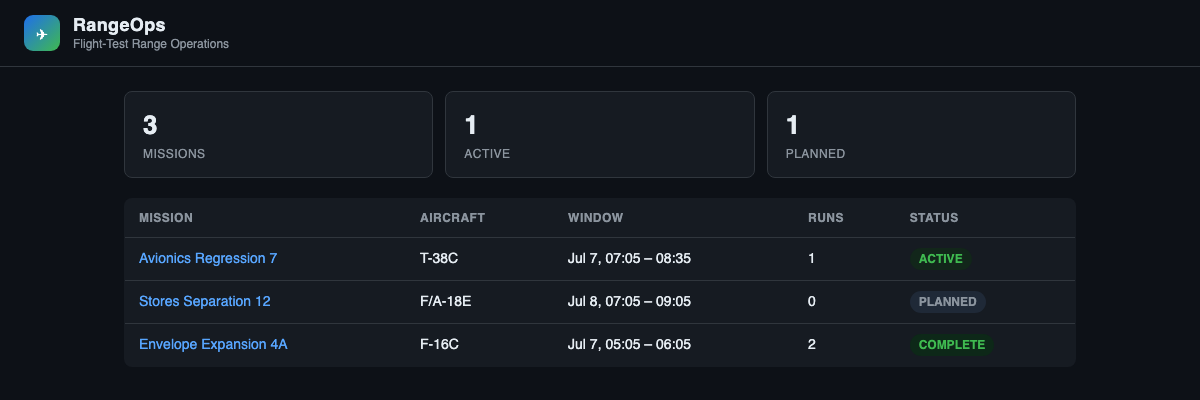
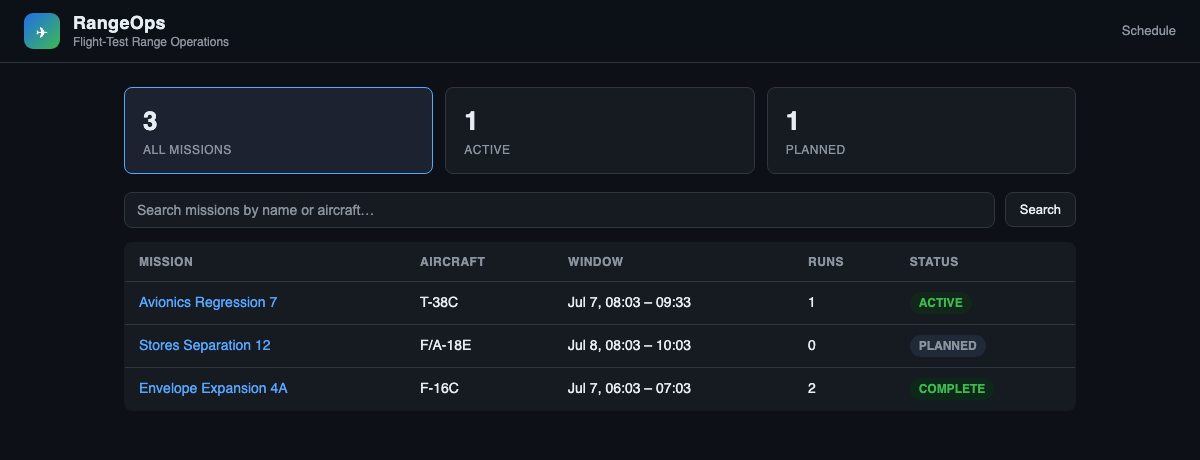
Dashboard UX: sticky nav, filterable/searchable schedule board
- Sticky top nav with a clickable logo/brand → schedule board (always-available
  "home"), plus a Schedule link
- Status summary cards are now clickable filters (?status=), with active-state
  highlight and an "All missions" reset
- Mission search box (?q= over name/aircraft)
- Whole table rows are clickable (keyboard-accessible name links preserved),
  with hover states, transitions, empty states, focus-visible outlines, and a
  responsive layout (stacking cards, scrollable tables on mobile)
- E2E: added nav/filter/search/row-click tests; screenshots regenerated

diff --git a/dashboard/ops/templates/ops/base.html b/dashboard/ops/templates/ops/base.html
@@ -5,32 +5,70 @@
   <meta name="viewport" content="width=device-width, initial-scale=1">
   <title>{% block title %}RangeOps{% endblock %}</title>
   <style>
-    :root { --bg:#0d1117; --panel:#161b22; --line:#30363d; --fg:#e6edf3;
-            --muted:#8b949e; --accent:#58a6ff; --ok:#3fb950; --warn:#d29922; --bad:#f85149; }
+    :root { --bg:#0d1117; --panel:#161b22; --panel2:#1c2230; --line:#30363d;
+            --fg:#e6edf3; --muted:#8b949e; --accent:#58a6ff; --ok:#3fb950;
+            --warn:#d29922; --bad:#f85149; }
     * { box-sizing: border-box; }
     body { margin:0; background:var(--bg); color:var(--fg);
            font:14px/1.5 -apple-system,Segoe UI,Roboto,sans-serif; }
-    header { border-bottom:1px solid var(--line); padding:14px 24px;
-             display:flex; align-items:center; gap:13px; }
-    header .logo { width:36px; height:36px; border-radius:9px; flex:none;
-             background:linear-gradient(135deg,#1f6feb,#3fb950);
-             display:flex; align-items:center; justify-content:center;
-             font-size:19px; color:#fff; }
-    header .brand { display:flex; flex-direction:column; line-height:1.25; }
-    header h1 { font-size:18px; margin:0; font-weight:600; letter-spacing:.02em; }
-    header .sub { color:var(--muted); font-size:12px; }
+    a { color:var(--accent); text-decoration:none; transition:color .12s ease; }
+    a:hover { text-decoration:underline; }
+    :focus-visible { outline:2px solid var(--accent); outline-offset:2px; border-radius:6px; }
+
+    /* ---------- top nav ---------- */
+    header { position:sticky; top:0; z-index:10;
+             border-bottom:1px solid var(--line);
+             background:rgba(13,17,23,.85); backdrop-filter:blur(8px);
+             padding:12px 24px; display:flex; align-items:center; gap:16px; }
+    .brand-link { display:flex; align-items:center; gap:13px; color:inherit; }
+    .brand-link:hover { text-decoration:none; opacity:.9; }
+    .logo { width:36px; height:36px; border-radius:9px; flex:none;
+            background:linear-gradient(135deg,#1f6feb,#3fb950);
+            display:flex; align-items:center; justify-content:center;
+            font-size:19px; color:#fff; }
+    .brand { display:flex; flex-direction:column; line-height:1.25; }
+    .brand h1 { font-size:18px; margin:0; font-weight:600; letter-spacing:.02em; }
+    .brand .sub { color:var(--muted); font-size:12px; }
+    .nav-right { margin-left:auto; display:flex; align-items:center; gap:16px;
+                 font-size:13px; }
+    .nav-right a { color:var(--muted); }
+    .nav-right a:hover { color:var(--fg); text-decoration:none; }
+
     main { max-width:1000px; margin:0 auto; padding:24px; }
-    a { color:var(--accent); text-decoration:none; } a:hover { text-decoration:underline; }
-    .cards { display:flex; gap:12px; margin-bottom:20px; }
+
+    /* ---------- summary / filter cards ---------- */
+    .cards { display:flex; gap:12px; margin-bottom:18px; }
     .card { background:var(--panel); border:1px solid var(--line); border-radius:8px;
             padding:14px 18px; flex:1; }
     .card .n { font-size:26px; font-weight:600; }
     .card .l { color:var(--muted); font-size:12px; text-transform:uppercase; letter-spacing:.04em; }
+    a.card { color:inherit; transition:border-color .12s ease, background .12s ease, transform .06s ease; }
+    a.card:hover { text-decoration:none; border-color:#4b5563; background:var(--panel2); }
+    a.card:active { transform:translateY(1px); }
+    a.card.active { border-color:var(--accent); background:var(--panel2); }
+
+    /* ---------- toolbar (search + reset) ---------- */
+    .toolbar { display:flex; gap:10px; align-items:center; margin-bottom:14px; flex-wrap:wrap; }
+    .search { flex:1; min-width:180px; background:var(--panel); color:var(--fg);
+              border:1px solid var(--line); border-radius:8px; padding:9px 12px;
+              font-size:14px; transition:border-color .12s ease; }
+    .search::placeholder { color:var(--muted); }
+    .search:focus { outline:none; border-color:var(--accent); }
+    .btn { background:var(--panel); color:var(--fg); border:1px solid var(--line);
+           border-radius:8px; padding:9px 14px; font-size:13px; cursor:pointer;
+           transition:border-color .12s ease, background .12s ease; }
+    .btn:hover { border-color:#4b5563; background:var(--panel2); text-decoration:none; }
+
+    /* ---------- tables ---------- */
     table { width:100%; border-collapse:collapse; background:var(--panel);
             border:1px solid var(--line); border-radius:8px; overflow:hidden; }
     th,td { text-align:left; padding:10px 14px; border-bottom:1px solid var(--line); }
     th { color:var(--muted); font-size:12px; text-transform:uppercase; letter-spacing:.04em; }
     tr:last-child td { border-bottom:0; }
+    tbody tr { transition:background .1s ease; }
+    tbody tr.clickable { cursor:pointer; }
+    tbody tr.clickable:hover { background:var(--panel2); }
+
     .pill { display:inline-block; padding:2px 9px; border-radius:999px; font-size:12px; font-weight:600; }
     .PLANNED,.PENDING { background:#1f2937; color:var(--muted); }
     .ACTIVE,.RUNNING  { background:#12261a; color:var(--ok); }
@@ -38,15 +76,32 @@
     .SCRUBBED,.FAIL   { background:#2b1416; color:var(--bad); }
     .crumb { color:var(--muted); margin-bottom:16px; }
     .fault { color:var(--bad); font-weight:600; }
+    .empty { background:var(--panel); border:1px dashed var(--line); border-radius:8px;
+             padding:28px; text-align:center; color:var(--muted); }
+
+    /* ---------- responsive ---------- */
+    .table-wrap { overflow-x:auto; }
+    @media (max-width:640px) {
+      header { padding:12px 16px; }
+      .nav-right { display:none; }
+      main { padding:16px; }
+      .cards { flex-direction:column; }
+      table { min-width:560px; }
+    }
   </style>
 </head>
 <body>
   <header>
-    <div class="logo">✈</div>
-    <div class="brand">
-      <h1>RangeOps</h1>
-      <span class="sub">Flight-Test Range Operations</span>
-    </div>
+    <a class="brand-link" href="{% url 'mission_list' %}" aria-label="RangeOps home">
+      <span class="logo">✈</span>
+      <span class="brand">
+        <h1>RangeOps</h1>
+        <span class="sub">Flight-Test Range Operations</span>
+      </span>
+    </a>
+    <nav class="nav-right">
+      <a href="{% url 'mission_list' %}">Schedule</a>
+    </nav>
   </header>
   <main>{% block content %}{% endblock %}</main>
 </body>

diff --git a/dashboard/ops/templates/ops/mission_list.html b/dashboard/ops/templates/ops/mission_list.html
@@ -2,27 +2,65 @@
 {% block title %}Schedule — RangeOps{% endblock %}
 {% block content %}
   <div class="cards">
-    <div class="card"><div class="n">{{ counts.total }}</div><div class="l">Missions</div></div>
-    <div class="card"><div class="n">{{ counts.active }}</div><div class="l">Active</div></div>
-    <div class="card"><div class="n">{{ counts.planned }}</div><div class="l">Planned</div></div>
+    <a class="card {% if not active_status %}active{% endif %}"
+       href="{% url 'mission_list' %}{% if query %}?q={{ query|urlencode }}{% endif %}">
+      <div class="n">{{ counts.total }}</div><div class="l">All missions</div>
+    </a>
+    <a class="card {% if active_status == 'ACTIVE' %}active{% endif %}"
+       href="?status=ACTIVE{% if query %}&q={{ query|urlencode }}{% endif %}">
+      <div class="n">{{ counts.active }}</div><div class="l">Active</div>
+    </a>
+    <a class="card {% if active_status == 'PLANNED' %}active{% endif %}"
+       href="?status=PLANNED{% if query %}&q={{ query|urlencode }}{% endif %}">
+      <div class="n">{{ counts.planned }}</div><div class="l">Planned</div>
+    </a>
   </div>
 
-  <table>
-    <thead>
-      <tr><th>Mission</th><th>Aircraft</th><th>Window</th><th>Runs</th><th>Status</th></tr>
-    </thead>
-    <tbody>
-      {% for m in missions %}
-        <tr>
-          <td><a href="{% url 'mission_detail' m.id %}">{{ m.name }}</a></td>
-          <td>{{ m.aircraft }}</td>
-          <td>{{ m.scheduled_start|date:"M j, H:i" }} – {{ m.scheduled_end|date:"H:i" }}</td>
-          <td>{{ m.run_count }}</td>
-          <td><span class="pill {{ m.status }}">{{ m.status }}</span></td>
-        </tr>
-      {% empty %}
-        <tr><td colspan="5">No missions scheduled.</td></tr>
-      {% endfor %}
-    </tbody>
-  </table>
+  <form method="get" class="toolbar" role="search">
+    {% if active_status %}<input type="hidden" name="status" value="{{ active_status }}">{% endif %}
+    <input class="search" type="search" name="q" value="{{ query }}"
+           placeholder="Search missions by name or aircraft…" aria-label="Search missions">
+    <button class="btn" type="submit">Search</button>
+    {% if query or active_status %}
+      <a class="btn" href="{% url 'mission_list' %}">Clear</a>
+    {% endif %}
+  </form>
+
+  <div class="table-wrap">
+    <table>
+      <thead>
+        <tr><th>Mission</th><th>Aircraft</th><th>Window</th><th>Runs</th><th>Status</th></tr>
+      </thead>
+      <tbody>
+        {% for m in missions %}
+          <tr class="clickable" data-href="{% url 'mission_detail' m.id %}">
+            <td><a href="{% url 'mission_detail' m.id %}">{{ m.name }}</a></td>
+            <td>{{ m.aircraft }}</td>
+            <td>{{ m.scheduled_start|date:"M j, H:i" }} – {{ m.scheduled_end|date:"H:i" }}</td>
+            <td>{{ m.run_count }}</td>
+            <td><span class="pill {{ m.status }}">{{ m.status }}</span></td>
+          </tr>
+        {% empty %}
+          <tr><td colspan="5">
+            <div class="empty">
+              {% if query or active_status %}
+                No missions match your filter. <a href="{% url 'mission_list' %}">Show all</a>.
+              {% else %}
+                No missions scheduled yet.
+              {% endif %}
+            </div>
+          </td></tr>
+        {% endfor %}
+      </tbody>
+    </table>
+  </div>
+
+  <script>
+    document.querySelectorAll("tr.clickable").forEach(function (row) {
+      row.addEventListener("click", function (e) {
+        if (e.target.closest("a")) return;   // let real links handle themselves
+        window.location = row.dataset.href;
+      });
+    });
+  </script>
 {% endblock %}

diff --git a/dashboard/ops/templates/ops/mission_detail.html b/dashboard/ops/templates/ops/mission_detail.html
@@ -8,22 +8,35 @@
     – {{ mission.scheduled_end|date:"H:i" }}
   </p>
 
-  <table>
-    <thead>
-      <tr><th>Test run</th><th>Status</th><th>Started</th><th>Ended</th><th>Notes</th></tr>
-    </thead>
-    <tbody>
-      {% for r in runs %}
-        <tr>
-          <td><a href="{% url 'run_detail' r.id %}">{{ r.name }}</a></td>
-          <td><span class="pill {{ r.status }}">{{ r.status }}</span></td>
-          <td>{{ r.started_at|date:"H:i:s"|default:"—" }}</td>
-          <td>{{ r.ended_at|date:"H:i:s"|default:"—" }}</td>
-          <td>{{ r.notes|default:"—" }}</td>
-        </tr>
-      {% empty %}
-        <tr><td colspan="5">No test runs recorded for this mission yet.</td></tr>
-      {% endfor %}
-    </tbody>
-  </table>
+  <div class="table-wrap">
+    <table>
+      <thead>
+        <tr><th>Test run</th><th>Status</th><th>Started</th><th>Ended</th><th>Notes</th></tr>
+      </thead>
+      <tbody>
+        {% for r in runs %}
+          <tr class="clickable" data-href="{% url 'run_detail' r.id %}">
+            <td><a href="{% url 'run_detail' r.id %}">{{ r.name }}</a></td>
+            <td><span class="pill {{ r.status }}">{{ r.status }}</span></td>
+            <td>{{ r.started_at|date:"H:i:s"|default:"—" }}</td>
+            <td>{{ r.ended_at|date:"H:i:s"|default:"—" }}</td>
+            <td>{{ r.notes|default:"—" }}</td>
+          </tr>
+        {% empty %}
+          <tr><td colspan="5">
+            <div class="empty">No test runs recorded for this mission yet.</div>
+          </td></tr>
+        {% endfor %}
+      </tbody>
+    </table>
+  </div>
+
+  <script>
+    document.querySelectorAll("tr.clickable").forEach(function (row) {
+      row.addEventListener("click", function (e) {
+        if (e.target.closest("a")) return;
+        window.location = row.dataset.href;
+      });
+    });
+  </script>
 {% endblock %}

diff --git a/dashboard/e2e/test_dashboard.py b/dashboard/e2e/test_dashboard.py
@@ -16,6 +16,7 @@ can never drift from what the app renders.
 """
 import os
 import pathlib
+import re
 
 import pytest
 from playwright.sync_api import Page, expect
@@ -33,15 +34,55 @@ def _shoot(page: Page, name: str, height: int):
 
 
 def test_schedule_board(page: Page):
-    """The home page lists scheduled missions with a status rollup."""
+    """The home page lists scheduled missions with a status rollup + search."""
     page.goto(f"{BASE_URL}/")
 
     expect(page.get_by_role("heading", name="RangeOps")).to_be_visible()
     expect(page.get_by_text("Avionics Regression 7")).to_be_visible()
     expect(page.get_by_text("Envelope Expansion 4A")).to_be_visible()
     expect(page.locator(".pill.ACTIVE").first).to_be_visible()
+    expect(page.get_by_placeholder("Search missions")).to_be_visible()
 
-    _shoot(page, "01-schedule.png", height=400)
+    _shoot(page, "01-schedule.png", height=460)
+
+
+def test_filter_by_active_card(page: Page):
+    """Clicking the Active card filters the board to active missions."""
+    page.goto(f"{BASE_URL}/")
+    page.get_by_role("link", name="Active").click()
+
+    expect(page).to_have_url(re.compile(r"status=ACTIVE"))
+    expect(page.get_by_text("Avionics Regression 7")).to_be_visible()
+    expect(page.get_by_text("Envelope Expansion 4A")).not_to_be_visible()
+
+
+def test_search_missions(page: Page):
+    """The search box filters by name/aircraft."""
+    page.goto(f"{BASE_URL}/")
+    page.get_by_placeholder("Search missions").fill("F-16")
+    page.get_by_role("button", name="Search").click()
+
+    expect(page.get_by_text("Envelope Expansion 4A")).to_be_visible()
+    expect(page.get_by_text("Avionics Regression 7")).not_to_be_visible()
+
+
+def test_logo_returns_home(page: Page):
+    """The header logo/brand navigates back to the schedule board."""
+    page.goto(f"{BASE_URL}/")
+    page.get_by_role("link", name="Envelope Expansion 4A").click()
+    expect(page.get_by_text("Climb to FL250")).to_be_visible()  # on detail page
+
+    page.get_by_role("link", name="RangeOps home").click()
+    expect(page.get_by_placeholder("Search missions")).to_be_visible()  # back home
+
+
+def test_row_click_navigates(page: Page):
+    """Clicking anywhere on a mission row opens its detail page."""
+    page.goto(f"{BASE_URL}/")
+    # click a non-link cell (the aircraft cell) of the Envelope Expansion row
+    row = page.locator("tr.clickable", has_text="Envelope Expansion 4A")
+    row.get_by_text("F-16C").click()
+    expect(page.get_by_text("Climb to FL250")).to_be_visible()
 
 
 def test_mission_detail(page: Page):

diff --git a/dashboard/ops/views.py b/dashboard/ops/views.py
@@ -1,25 +1,47 @@
 """Read-only reporting views over the shared RangeOps database."""
-from django.db.models import Count, Max, Min
+from django.db.models import Count, Max, Min, Q
 from django.shortcuts import get_object_or_404, render
 
 from .models import Mission, TelemetrySample, TestRun
 
+# Statuses that can be filtered from the schedule-board cards.
+_FILTERABLE = {"ACTIVE", "PLANNED", "COMPLETE"}
+
 
 def mission_list(request):
-    """Schedule board: every mission with a rollup of its test runs."""
-    missions = (
-        Mission.objects.all()
-        .annotate(run_count=Count("test_runs"))
-    )
+    """Schedule board: every mission with a rollup of its test runs.
+
+    Supports optional filtering by ?status= and free-text ?q= (name/aircraft).
+    """
+    status = (request.GET.get("status") or "").upper()
+    query = (request.GET.get("q") or "").strip()
+
+    missions = Mission.objects.all().annotate(run_count=Count("test_runs"))
+    if status in _FILTERABLE:
+        missions = missions.filter(status=status)
+    else:
+        status = ""  # normalize unknown/absent to "All"
+    if query:
+        missions = missions.filter(
+            Q(name__icontains=query) | Q(aircraft__icontains=query)
+        )
+
+    # Counts are always over the full set so the cards act as stable filters.
+    base = Mission.objects.all()
     counts = {
-        "total": Mission.objects.count(),
-        "active": Mission.objects.filter(status="ACTIVE").count(),
-        "planned": Mission.objects.filter(status="PLANNED").count(),
+        "total": base.count(),
+        "active": base.filter(status="ACTIVE").count(),
+        "planned": base.filter(status="PLANNED").count(),
     }
     return render(
         request,
         "ops/mission_list.html",
-        {"missions": missions, "counts": counts},
+        {
+            "missions": missions,
+            "counts": counts,
+            "active_status": status,
+            "query": query,
+        },
     )
 
 